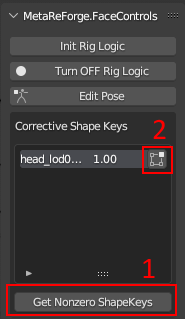
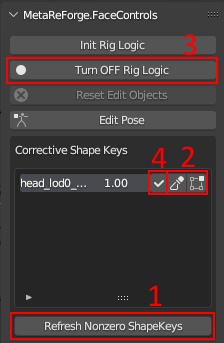
"corrective shape keys" and "update original" sections

Changed region(s): [[0.027, 0.0282, 0.973, 0.5925], [0.027, 0.79, 0.973, 1.0], [0.9189, 0.0282, 0.973, 0.0564]]

diff --git a/docs/workflow_1_1.md b/docs/workflow_1_1.md
@@ -103,11 +103,12 @@ Then you need to transfer changes from skin and teeth to the other objects.
 
 #### 4.2. How to transfer defromation from one edit object to another (eyeshels, eyelashes etc.)
 To transfer deformations, you need 
-1. to select the necessary item from the list (_**action 1**_) to which you want to transfer the deformations. 
-2. Next, you need to set up the transfer. You can specify the basis and final objects manually or, as shown in the figure: enter the edit_id of the mesh from which the deformations will be transferred (_**action 2**_) and press the arrow button (_**action 3**_). If everything is specified correctly, then the basis and final objects should be determined automatically.
-3. By default, the surface deform modifier will be used to transfer changes (in short, the vertices of the mesh will be attached to the closest polygons of the source mesh. [Learn more](https://docs.blender.org/manual/en/latest/modeling/modifiers/deform/surface_deform.html)). In some cases, it may not work as well as desired, for example, it may warp or significantly stretch the shape of the original objects, so an option with enabling the Laplacian deform (_**action 4**_) has been added (in brief, this modifier keeps the anchor vertices in fixed positions and calculates the optimal locations of all the remaining vertices to preserve the original geometric details. [Learn more](https://docs.blender.org/manual/en/latest/modeling/modifiers/deform/laplacian_deform.html)). In this case, points that are close (closer than "Lapl. Thresh.", _**action 5**_) to the mesh from which the transformations are transferred will be transferred using surface deform (attached to the surface), and points that are further will be reconstructed using Laplacian deform. **For example**, when transferring deformations from the main body mesh to the eyelashes, the roots of the eyelashes will be attached to the nearest polygons on the eyelids, while the rest of the eyelash will not be directly attached to the body but will try to preserve the original shape of the eyelash as much as possible taking into account the new location of the eyelash root.
-4. Click transfer (_**action 6**_)
+1. to select the necessary item from the list (_**1**_, see figure) to which you want to transfer the deformations. 
+2. Next, you need to set up the transfer. You can specify the basis and final objects manually or, as shown in the figure: enter the edit_id of the mesh from which the deformations will be transferred (_**2**_, see figure) and press the arrow button (_**3**_, see figure). If everything is specified correctly, then the basis and final objects should be determined automatically.
+3. By default, the surface deform modifier will be used to transfer changes (in short, the vertices of the mesh will be attached to the closest polygons of the source mesh. [Learn more](https://docs.blender.org/manual/en/latest/modeling/modifiers/deform/surface_deform.html)). In some cases, it may not work as well as desired, for example, it may warp or significantly stretch the shape of the original objects, so an option with enabling the Laplacian deform (_**4**_, see figure) has been added (in brief, this modifier keeps the anchor vertices in fixed positions and calculates the optimal locations of all the remaining vertices to preserve the original geometric details. [Learn more](https://docs.blender.org/manual/en/latest/modeling/modifiers/deform/laplacian_deform.html)). In this case, points that are closer than "Lapl. Thresh." (_**5**_, see figure) to the mesh from which the transformations are transferred will be transferred using surface deform (attached to the surface), and points that are further will be reconstructed using Laplacian deform. **For example**, when transferring deformations from the main body mesh to the eyelashes, the roots of the eyelashes will be attached to the nearest polygons on the eyelids, while the rest of the eyelash will not be directly attached to the body but will try to preserve the original shape of the eyelash as much as possible taking into account the new location of the eyelash root.
+4. Click transfer (_**6**_, see figure)
 5. Revise the changes after the transfer and fix minor problems.
+
 <a href="./images/transfer_edit_shape.png">
   <p align="center">
     <img src="./images/transfer_edit_shape.png" width="35%" height="35%"/>
@@ -122,7 +123,7 @@ Despite the lengthy description, the process is simpler than it seems. **The ski
 3. **Eyelashes** - Transfer the deformation from "skin" with Laplacian Deform enabled (thresh >= 0.1).
 4. **Eye Edge, Cartilage** - Transfer the deformation from "skin" with Laplacian Deform disabled.
 
-### 4.3. Editing in third party application:
+#### 4.3. Editing in third party application:
 If you wish to modify any part of the body in an external application, you will need to export the necessary Final Mesh and then, after editing, import it back into Blender and assign it in the 'Final' field for the corresponding body part. It's important to ensure that the vertex order remains unchanged.
 
 ### 5. Editing the Armature
@@ -153,18 +154,21 @@ To initialize the control rig, open the **MetaReforge.FaceControls** menu on the
 The recalculation of changes in bone positions, etc., requires a lot of resources, so it can be turned off when not needed by clicking the **"Turn OFF Rig Logic"** button and then, when necessary, re-enable calculations by clicking **"Turn ON Rig Logic."**
 
 #### 6.2. Tuning Corrective Shape Keys (Morph Targets)
-For a setup of corrective shape keys, it's necessary to identify the facial expression you wish to adjust. Then, in the **"MetaReforge.FaceControls"** menu, display all non-zero shape keys by clicking on the **"Get nonzero shape keys"** button (_**action 1**_), which lists all the non-zero shape keys for the given facial expression. When changing the facial expression, the button must be pressed again to refresh the information.
+For a setup of corrective shape keys, it's necessary to identify the facial expression you wish to adjust. Then, in the **"MetaReforge.FaceControls"** menu, display all non-zero shape keys by clicking on the **"Refresh nonzero shape keys"** button (_**1**_, see figure), which lists all the non-zero shape keys for the given facial expression. When changing the facial expression, the button must be pressed again to refresh the information.
 
-Next, click on the edit icon next to the selected shape key (_**action 2**_). After this, you will enter the editing mode for that particular shape key. Use the editing tools that are most convenient for you.
+Next, click on the edit icon or the sculpt icon next (_**2**_, see figure) to enter edit mode or sculpt mode preconfigured for editing the particular shape key.
 
-After completing the editing, you can return to the control rig (click the **"Edit Pose"** button) and check how the face animates with the updated shape key.
+Optionally you may also disable rig logic (_**3**_, see figure). This may be necessary to improve performance during editing, as the enabled rig logic significantly reduces performance.
+
+After completing the editing, you can include the shape key to the syncronization list by clicking the checkmark button (_**4**_, see figure). 
+Then you can return to the control rig (click the **"Edit Pose"** button) and check how the face animates with the updated shape key or do the next steps of the workflow from the object mode.
 
 **IMPORTANT NOTE:**
 Metahumans use corrective shape keys only at LOD0.
 
 <a href="./images/corrective_sk.png">
   <p align="center">
-    <img src="./images/corrective_sk.png" width="25%" height="25%"/>
+    <img src="./images/corrective_sk.png" width="35%" height="35%"/>
   </p>
 </a>
 
@@ -172,10 +176,17 @@ Metahumans use corrective shape keys only at LOD0.
 #### 7.1. Synchronization (Transferring Changes to the Exportable Objects)
 When the creative part of the work is completed, it's necessary to transfer all changes to the exportable models. For this, we go to the **"Update Original"** block. By clicking on the **"Synchronize"** button, changes from the Final Mesh (more precisely, the difference between the Final Mesh and the Initial Mesh) will be applied to the individual LODs, and the updated position of the bones will also be applied to the original armature objects.
 
-A few parameters are available for dealing with exceptional cases:
+<a href="./images/update_original.png">
+  <p align="center">
+    <img src="./images/update_original.png" width="35%" height="35%"/>
+  </p>
+</a>
 
-- **Use Noise:** Default is True. It introduces a small amount of noise to the vertex positions at the time of binding. The Surface Deform modifier, which this operator is based on, fails to work if the vertex positions are identical. The noise value is usually extremely small, making its visual impact imperceptible, but it's sufficient for the Surface Deform algorithm to bind successfully.
-- **Min, Max:** The minimum and maximum values of the noise in centimeters. These should only be increased if synchronization fails with standard settings. However, I recommend trying to press **Synchronize** again or several times in case of failure. Due to the random nature of the process, there's a good chance of achieving a noise configuration that allows smooth synchronization even without changing parameters.
+- **Use Noise (1, see fig. above):** Default is True. It introduces a small amount of noise to the vertex positions at the time of binding. The Surface Deform modifier, which this operator is based on, fails to work if the vertex positions are identical. The noise value is usually extremely small, making its visual impact imperceptible, but it's sufficient for the Surface Deform algorithm to bind successfully.
+- **Min, Max (2, see fig.):** The minimum and maximum values of the noise in centimeters. These should only be increased if synchronization fails with standard settings. However, I recommend trying to press **Synchronize** again or several times in case of failure. Due to the random nature of the process, there's a good chance of achieving a noise configuration that allows smooth synchronization even without changing parameters.
+- **Updating the shape key list (3, see fig.)**: Several options are available for updating the shape key list. **Refresh** - updates the list of keys while preserving their original values. It is recommended to use this when some keys have already been set (for example, marked from the nonzero [shape keys list](#62-tuning-corrective-shape-keys-morph-targets)). **Check All** - updates the list of all keys and marks them for subsequent synchronization. **Uncheck All** - does the same but disables all keys.
+- **Enable/Disable Transferring Shape Key (4, see fig.)**: The checkbox to the left of the key name enables or disables synchronization of that key. 
+- **Max LOD (5, see fig.)**: The number to the right of the key name indicates the maximum LOD with which this key will be synchronized. For example, all corrective morph targets for a Metahuman face exist only for LOD0, so the corresponding field is marked with 0, meaning this Morph target will only be transferred to LOD0. If you want to create your custom key and transfer it to all LODs, you can do so. For instance, if 5 is specified in the corresponding field, the key will be transferred to LODs from 0 to 5.
 
 After applying the changes, you can review the results. For convenience, there is a **"View"** block at the top of the panel, where you can switch between LODs and editable objects. There may be minor imperfections, which can be corrected manually.
 
@@ -190,11 +201,14 @@ After clicking on **"Re-Compute Split Normals"**, the following will occur:
 With **Weld Distance** (in centimeters), you can control this process, but the default value is chosen to work in most cases. With a Weld Distance of more than 0.01, you might start to see points welding together that shouldn't be.
 
 **Remember**, excessive Weld Distance can result in unintended merging of points, so it should be used cautiously.
-### 8. Export
+### 8. Cloth
+
+
+### 9. Export
 Once all LODs look as desired, it's time to export them for use in Unreal Engine. Go to **"Export"* block
-#### 8.1. FBX
+#### 9.1. FBX
 Based on my experience, I prefer to export LODs separately because this way, you don't have to spend a lot of time configuring Material Slots in Unreal Engine. Following this logic, we have a utility for exporting. You just need to specify the path (and the name if default is not OK) and click **"Export FBX"**. There's no need to worry about settings, selecting the right objects, etc. Everything will be done for you. As a result, you should see 8 LODs for the head and 4 LODs for the body in the folder, so you can upload these files to Unreal Engine.
-#### 8.2. DNA
+#### 9.2. DNA
 The Metahuman Animation blueprint heavily relies on the DNA file. Therefore, if you want your custom Metahuman to retain the ability to perform realistic facial animations, updating the DNA file is an ESSENTIAL step.
 Note: If you don't see the necessary functionality in the **"DNA Update"** block, check the Installation Guide.
 
